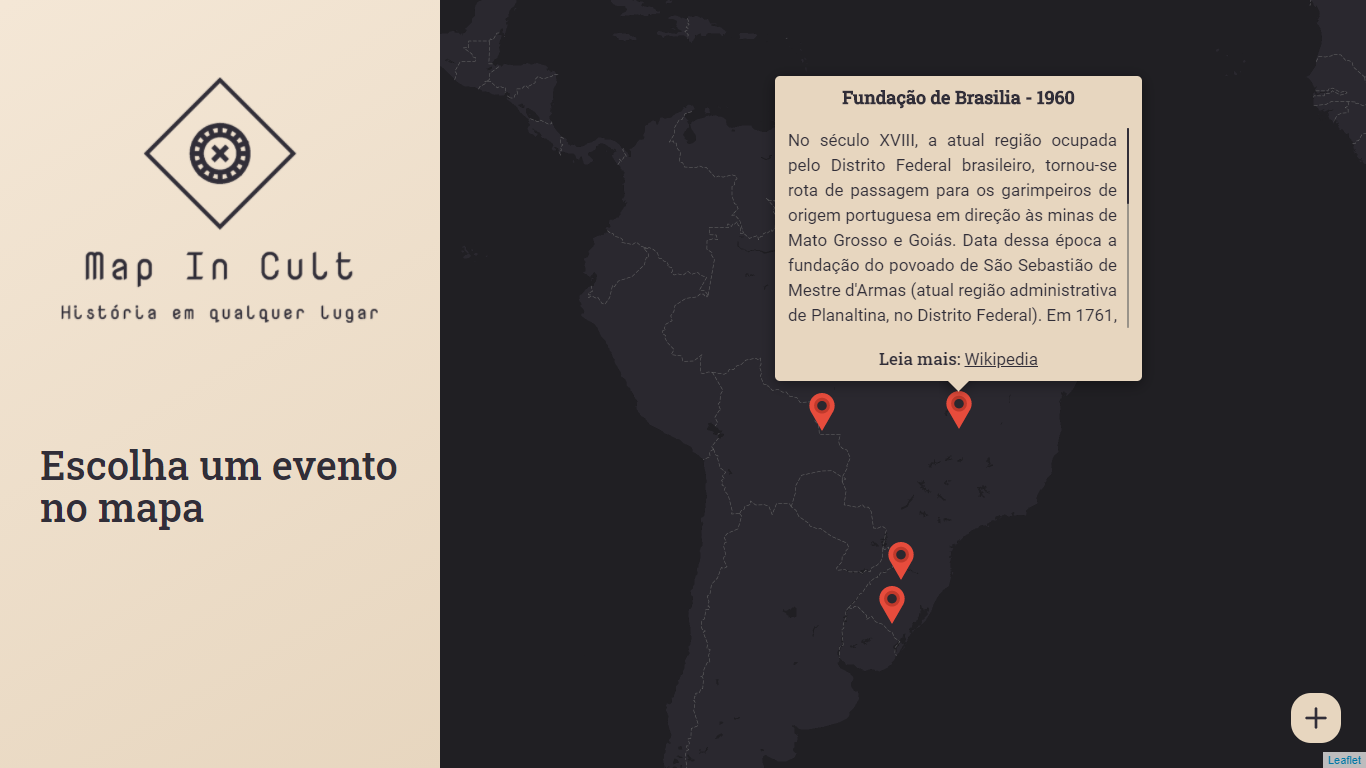
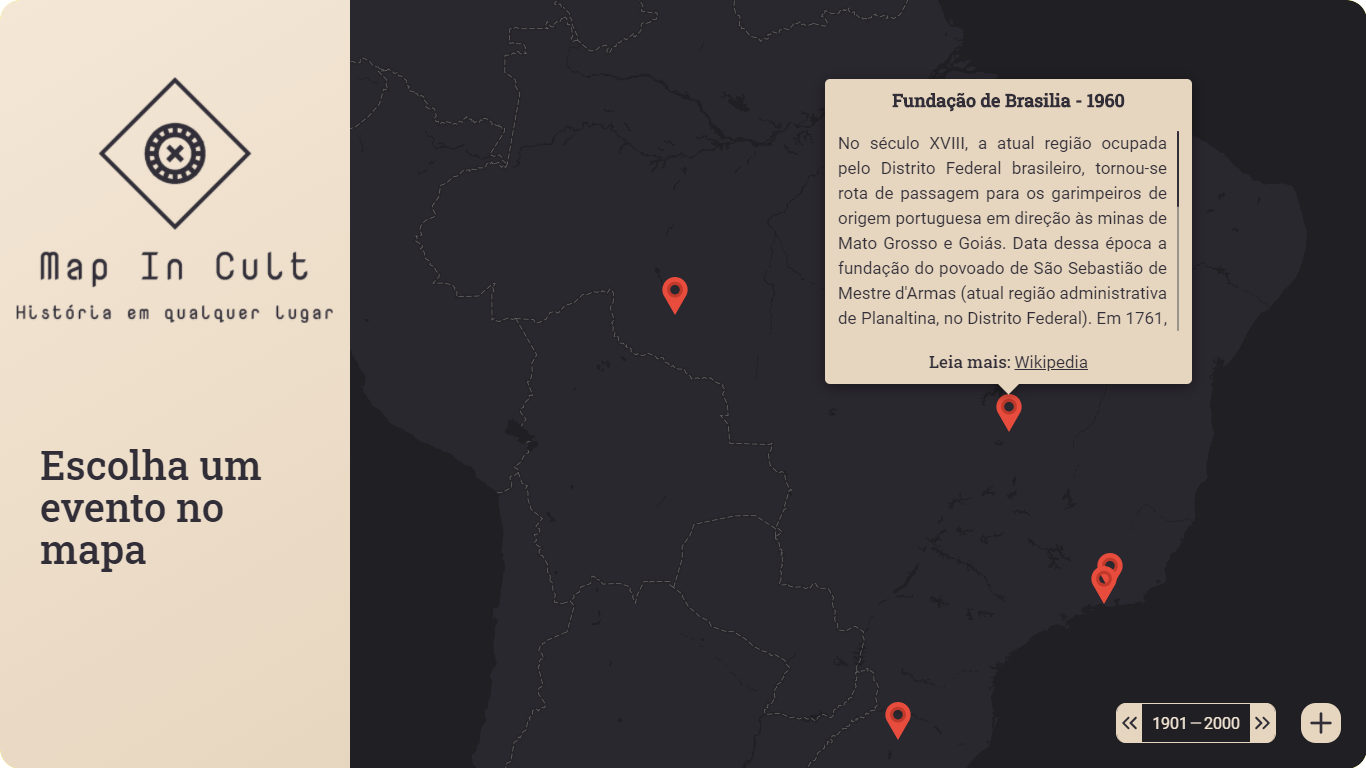
Added the possibility to choose which period of time the markers will be

diff --git a/web/src/pages/EventsMap/styles.ts b/web/src/pages/EventsMap/styles.ts
@@ -1,8 +1,14 @@
-import styled, { keyframes } from 'styled-components';
+import styled, { css, keyframes } from 'styled-components';
 import { shade } from 'polished';
 
 import { MapContainer, Popup } from 'react-leaflet';
 import { Link } from 'react-router-dom';
+
+interface eventsYear {
+  years: number[];
+  initialDate: number;
+  finalDate: number;
+}
 
 const appearFromLeft = keyframes`
   from {
@@ -25,8 +31,22 @@ export const Container = styled.div`
   animation: ${appearFromLeft} 0.6s;
 `;
 
-export const StyledMapContainer = styled(MapContainer)`
+export const StyledMapContainer = styled(MapContainer)<eventsYear>`
   z-index: 1;
+
+  .leaflet-map-pane {
+    ${props =>
+      props.years.map(
+        (year, index) =>
+          css`
+            .leaflet-marker-pane img:nth-child(${index + 1}) {
+              ${year >= props.initialDate && year <= props.finalDate
+                ? 'visibility: visible'
+                : 'visibility: hidden'}
+            }
+          `,
+      )}
+  }
 `;
 
 export const StyledPopup = styled(Popup)`
@@ -51,6 +71,7 @@ export const StyledPopup = styled(Popup)`
     h2 {
       font-size: 18px;
       font-weight: bold;
+      text-align: center;
     }
 
     p {
@@ -77,35 +98,12 @@ export const StyledPopup = styled(Popup)`
   }
 `;
 
-export const StyledLink = styled(Link)`
-  position: absolute;
-  right: 25px;
-  bottom: 25px;
-
-  width: 50px;
-  height: 50px;
-
-  background: #e7d6bf;
-  border-radius: 20px;
-
-  display: flex;
-  justify-content: center;
-  align-items: center;
-
-  z-index: 10;
-
-  transition: background-color 0.2s;
-
-  &:hover {
-    background-color: ${shade(0.2, '#e7d6bf')};
-  }
-`;
-
 export const Sidebar = styled.aside`
-  width: 440px;
+  width: 350px;
   background: linear-gradient(329.54deg, #e7d6bf 0%, #f4e7d6 100%);
   padding: 0px 40px;
 
+  z-index: 20;
   display: flex;
   flex-direction: column;
   justify-content: space-between;
@@ -130,5 +128,73 @@ export const Header = styled.header`
     font-weight: 500;
     line-height: 42px;
     margin-top: 64px;
+  }
+`;
+
+export const StyledLink = styled(Link)`
+  position: absolute;
+  z-index: 10;
+  right: 25px;
+  bottom: 25px;
+
+  width: 40px;
+  height: 40px;
+
+  background: #e7d6bf;
+  border-radius: 15px;
+
+  display: flex;
+  justify-content: center;
+  align-items: center;
+
+  transition: background-color 0.2s;
+
+  &:hover {
+    background-color: ${shade(0.2, '#e7d6bf')};
+  }
+`;
+
+export const TimelineContainer = styled.div`
+  position: absolute;
+  z-index: 10;
+  right: 90px;
+  bottom: 25px;
+
+  border: 1px solid #e7d6bf;
+  border-radius: 10px;
+
+  padding: 0;
+  margin: 0;
+
+  height: 40px;
+  color: #fff;
+
+  display: flex;
+  justify-content: center;
+  align-items: center;
+
+  button {
+    background: #e7d6bf;
+    border: none;
+    border-radius: 10px 0 0 10px;
+
+    height: 40px;
+    width: 25px;
+
+    display: flex;
+    justify-content: center;
+    align-items: center;
+  }
+
+  p + button {
+    border-radius: 0 10px 10px 0;
+  }
+
+  p {
+    color: #f4e7d6;
+    margin: 0 10px;
+
+    display: flex;
+    align-items: center;
   }
 `;

diff --git a/web/src/pages/EventsMap/index.tsx b/web/src/pages/EventsMap/index.tsx
@@ -1,16 +1,22 @@
-import React, { useEffect, useState } from 'react';
-import { FiPlus } from 'react-icons/fi';
+import React, { useCallback, useEffect, useState } from 'react';
+import {
+  FiPlus,
+  FiChevronsLeft,
+  FiChevronsRight,
+  FiMinus,
+} from 'react-icons/fi';
 import { TileLayer, Marker } from 'react-leaflet';
 import Leaflet from 'leaflet';
 
 import 'leaflet/dist/leaflet.css';
 
 import {
-  Container,
-  Sidebar,
   Header,
+  Sidebar,
+  Container,
   StyledLink,
   StyledPopup,
+  TimelineContainer,
   StyledMapContainer,
 } from './styles';
 
@@ -39,11 +45,23 @@ interface eventsData {
 
 const EventsMap: React.FC = () => {
   const [events, setEvents] = useState<eventsData[]>([]);
+  const [initialDate, setInitialDate] = useState<number>(2001);
+  const [finalDate, setFinalDate] = useState<number>(2100);
 
   useEffect(() => {
     api.get('events').then(response => {
       setEvents(response.data);
     });
+  }, []);
+
+  const decreaseDate = useCallback(() => {
+    setInitialDate(Date => Date - 100);
+    setFinalDate(Date => Date - 100);
+  }, []);
+
+  const increaseDate = useCallback(() => {
+    setInitialDate(Date => Date + 100);
+    setFinalDate(Date => Date + 100);
   }, []);
 
   return (
@@ -63,6 +81,10 @@ const EventsMap: React.FC = () => {
         minZoom={4}
         maxZoom={7}
         zoomControl={false}
+        doubleClickZoom={false}
+        years={events.map(event => event.year)}
+        initialDate={initialDate}
+        finalDate={finalDate}
       >
         <TileLayer
           url={`https://api.mapbox.com/styles/v1/joaoguibc/ckh8f39x311nc19qhcqusrknv/tiles/256/{z}/{x}/{y}@2x?access_token=${process.env.REACT_APP_MAPBOX_TOKEN}`}
@@ -89,6 +111,22 @@ const EventsMap: React.FC = () => {
           );
         })}
       </StyledMapContainer>
+
+      <TimelineContainer>
+        <button type="button" onClick={decreaseDate}>
+          <FiChevronsLeft size={30} color="#312e38" />
+        </button>
+
+        <p>
+          {initialDate}
+          <FiMinus />
+          {finalDate}
+        </p>
+
+        <button type="button" onClick={increaseDate}>
+          <FiChevronsRight size={30} color="#312e38" />
+        </button>
+      </TimelineContainer>
 
       <StyledLink to="wikipedia.com">
         <FiPlus size={32} color="#312e38" />

diff --git a/web/src/styles/global.ts b/web/src/styles/global.ts
@@ -26,6 +26,7 @@ export default createGlobalStyle`
     background: #e7d6bf;
     color: #FFF;
     -webkit-font-smoothing: antialiased;
+    overflow: hidden;
   }
 
   p {
